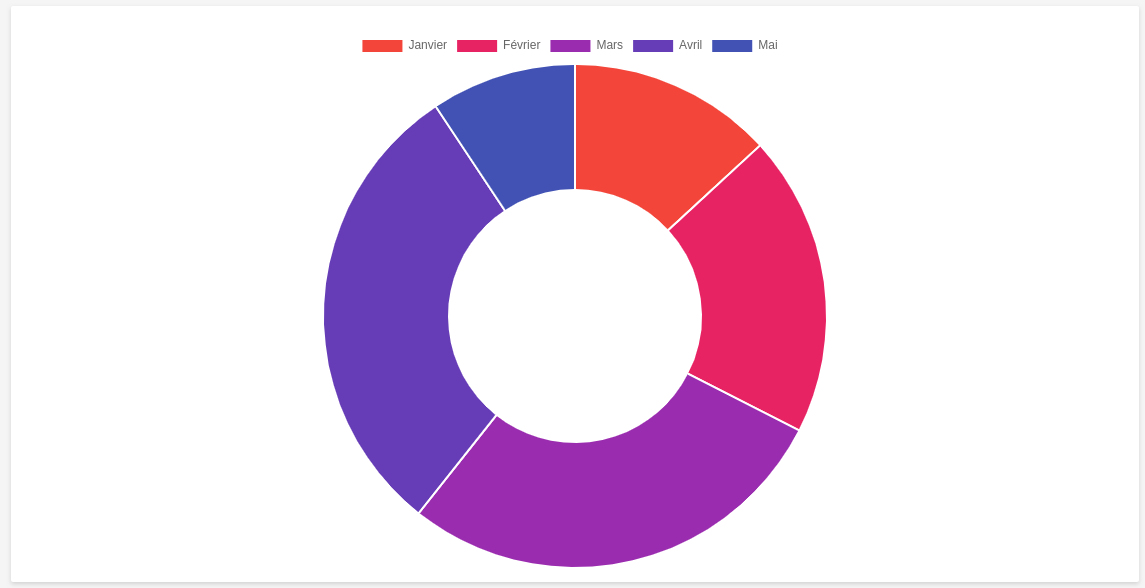
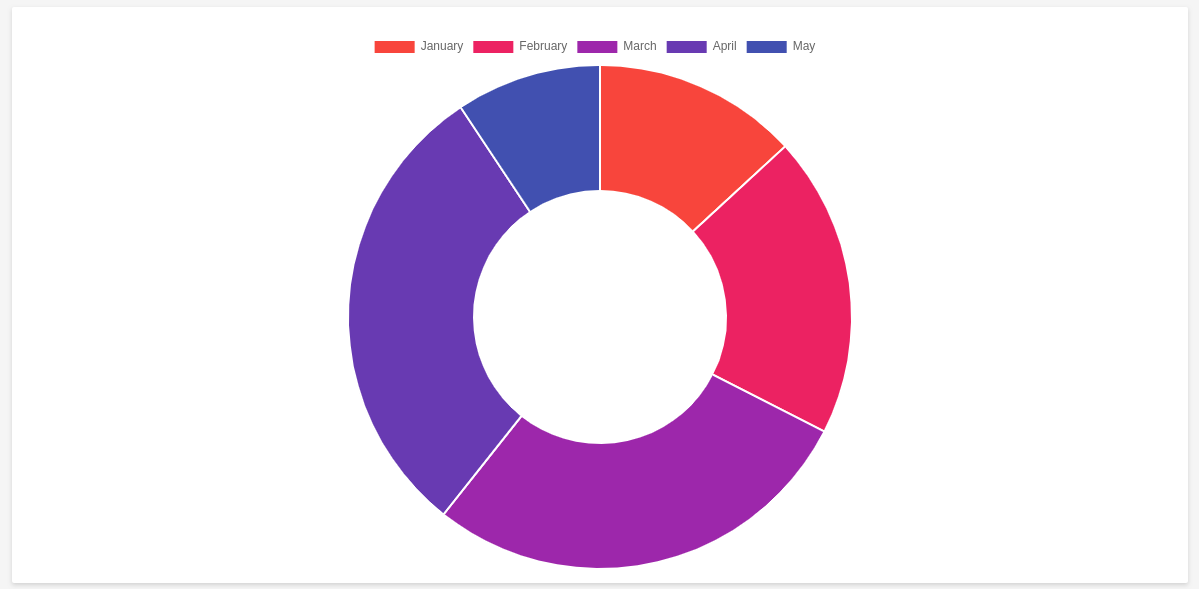
translate examples and update images

diff --git a/Data Visualization Widget/README.md b/Data Visualization Widget/README.md
@@ -19,7 +19,7 @@ Once validated, you can answer the call with the data you want to display in the
 ## Pie chart
 Returning
 
-`Janvier,Février,Mars,Avril,Mai\n193,284,413,440,137`
+`January,February,March,April,May\n193,284,413,440,137`
 
 will result in the following pie chart:
 
@@ -28,7 +28,7 @@ will result in the following pie chart:
 ## Table
 Returning
 
-`Magasin,CA,Ventes\nMetz,73127,764\nRennes,148076,521`
+`Store,Turnover,Sales\nParis,73127,764\nNew York,148076,521`
 
 will result in the following table:
 
@@ -37,7 +37,7 @@ will result in the following table:
 ## html
 Returning
 
-`<ul><li>Résultat 8</li><li>Résultat 1</li><ul>`
+`<ul><li>Result 8</li><li>Result 1</li><ul>`
 
 will be interpreted as:
 
